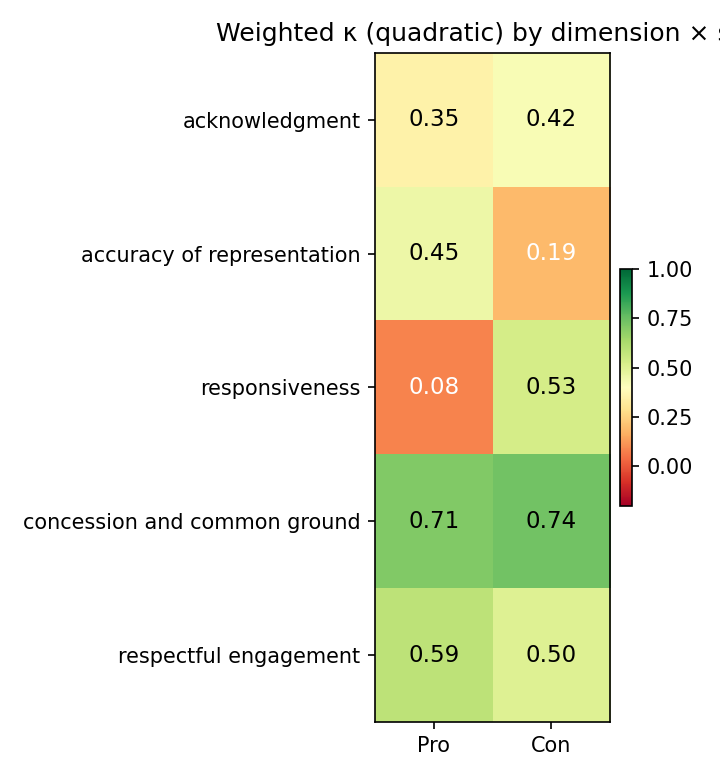
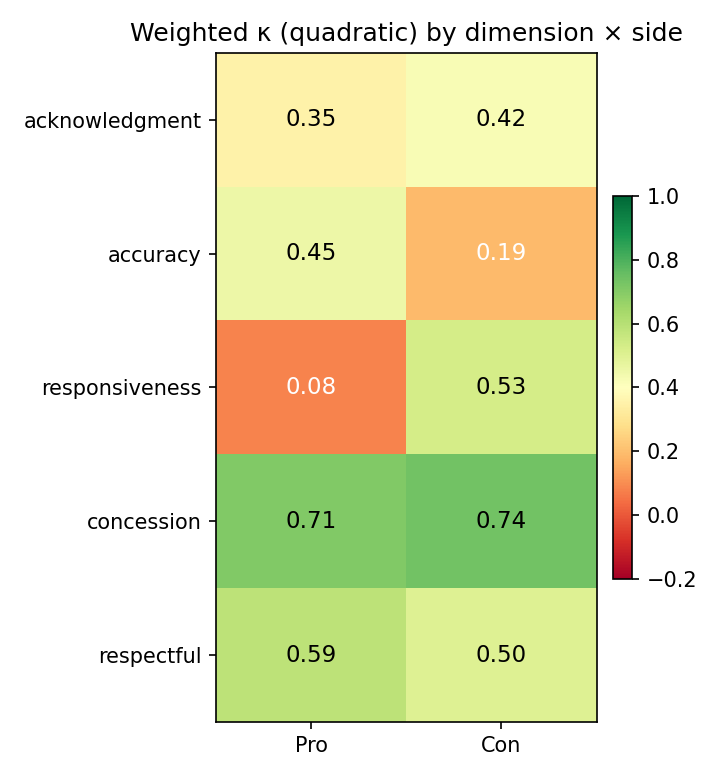
Update IAA dimension labels and revise heatmap/confusion matrix handling
- Add `SHORT_DIMENSIONS` to `compare.py` for simplified IAA dimension labels.
- Update `set_yticklabels` to use `SHORT_DIMENSIONS` in heatmap generation.
- Adjust CSV data in `iaa_per_dimension.csv` with minor revisions.
- Regenerate `iaa_heatmap.png` and `iaa_confusion_matrix.png` for updated labels.

diff --git a/compare.py b/compare.py
@@ -64,6 +64,13 @@ LISTENING_DIMENSIONS = (
     "concession_and_common_ground",
     "respectful_engagement",
 )
+SHORT_DIMENSIONS = (
+    "acknowledgment",
+    "accuracy",
+    "responsiveness",
+    "concession",
+    "respectful",
+)
 SIDES = ("pro", "con")
 JUDGMENT_LABELS = ("Pro", "Con", "Tie")
 # Per-dimension score ranges. concession_and_common_ground uses a narrower 1–3 scale
@@ -867,7 +874,7 @@ def _write_heatmap(per_cell: list[dict], output_dir: Path) -> None:
     ax.set_xticks(range(len(SIDES)))
     ax.set_xticklabels([s.capitalize() for s in SIDES])
     ax.set_yticks(range(len(LISTENING_DIMENSIONS)))
-    ax.set_yticklabels([d.replace("_", " ") for d in LISTENING_DIMENSIONS])
+    ax.set_yticklabels([d.replace("_", " ") for d in SHORT_DIMENSIONS])
     for i in range(mat.shape[0]):
         for j in range(mat.shape[1]):
             v = mat[i, j]
